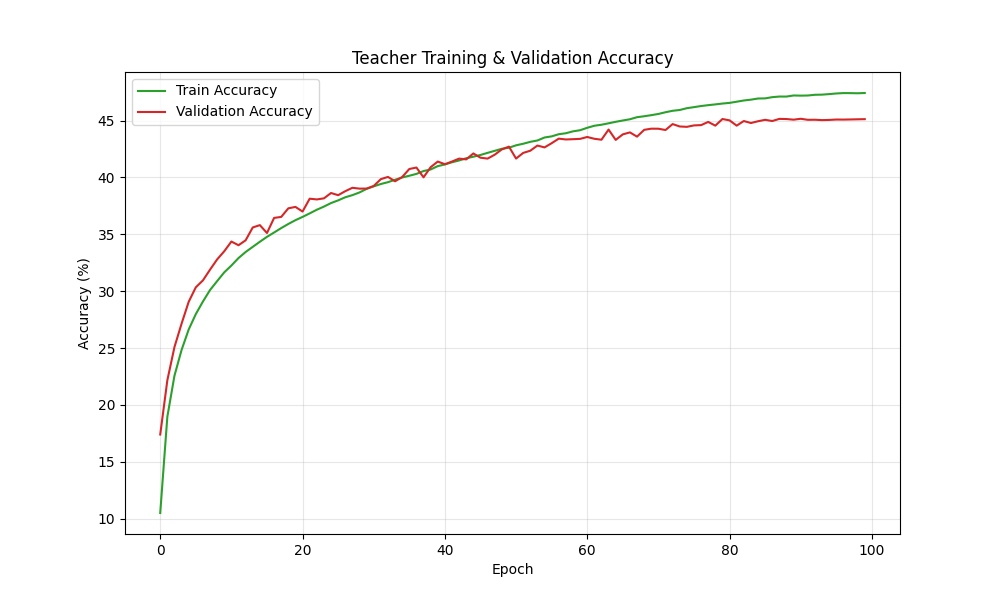
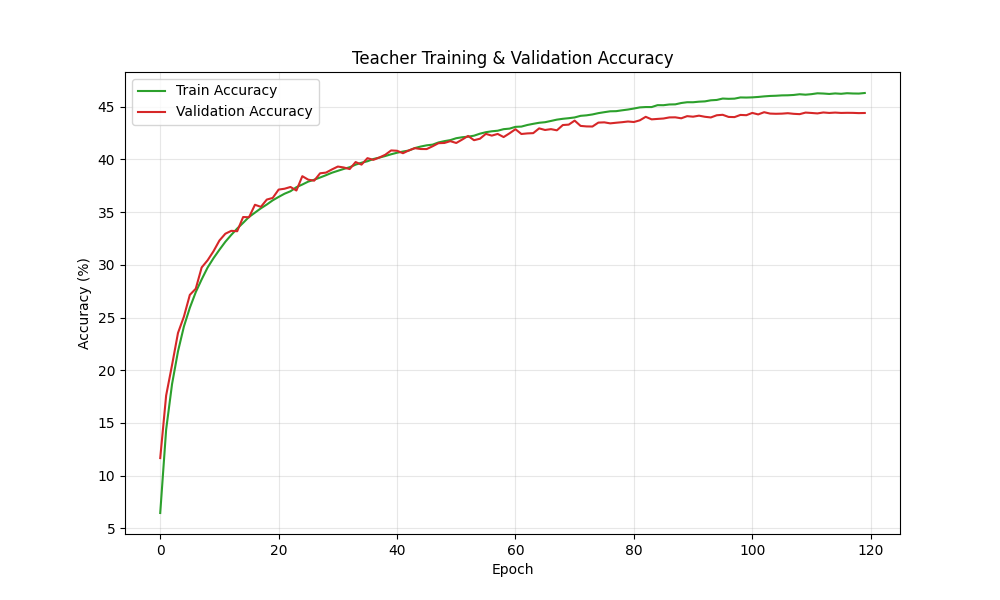
fix typos, reajust hyperparametters

diff --git a/src/train/train_teacher.py b/src/train/train_teacher.py
@@ -62,7 +62,7 @@ def train_one_epoch(
     running_loss: float = 0.0
     correct: int = 0
     total: int = 0
-    loop = tqdm(loader, desc=f"Training Teacher Epoch {epoch_index}")
+    loop = tqdm(loader, desc=f"Training Teacher Epoch {epoch_index+1}")
 
     for imgs, labels in loop:
         imgs, labels = imgs.to(device), labels.to(device)

diff --git a/src/train/train_student.py b/src/train/train_student.py
@@ -158,7 +158,7 @@ def train_one_epoch(
     running_kl_loss = 0.0
     correct = 0
     total = 0
-    loop = tqdm(loader, desc=f'Training Student Epoch {epoch_index}')
+    loop = tqdm(loader, desc=f'Training Student Epoch {epoch_index+1}')
 
     for imgs, labels in loop:
         imgs, labels = imgs.to(device), labels.to(device)

diff --git a/src/train/train_teacher_SSL.py b/src/train/train_teacher_SSL.py
@@ -61,7 +61,7 @@ def train_one_epoch(
     use_amp = device.type == "cuda"
     model.train()
     running_loss: float = 0.0
-    loop = tqdm(loader, desc=f"SSL Train Epoch {epoch_index}")
+    loop = tqdm(loader, desc=f"SSL Train Epoch {epoch_index+1}")
 
     for imgs, _ in loop: 
         imgs = imgs.to(device)

diff --git a/configs/train_imagenet1k.py b/configs/train_imagenet1k.py
@@ -1,5 +1,5 @@
 # train_imagenet1k.py
-d_model = 96
+d_model = 128
 n_classes = 1000
 img_size = (128, 128)
 patch_size = (16, 16)
@@ -8,7 +8,7 @@ n_heads = 4
 n_layers = 12
 batch_size = 256
 epochs = 120
-alpha = 0.002
+alpha = 0.0015
 layer_decay = 0.8
 
 # dynamic_Vit parameters
